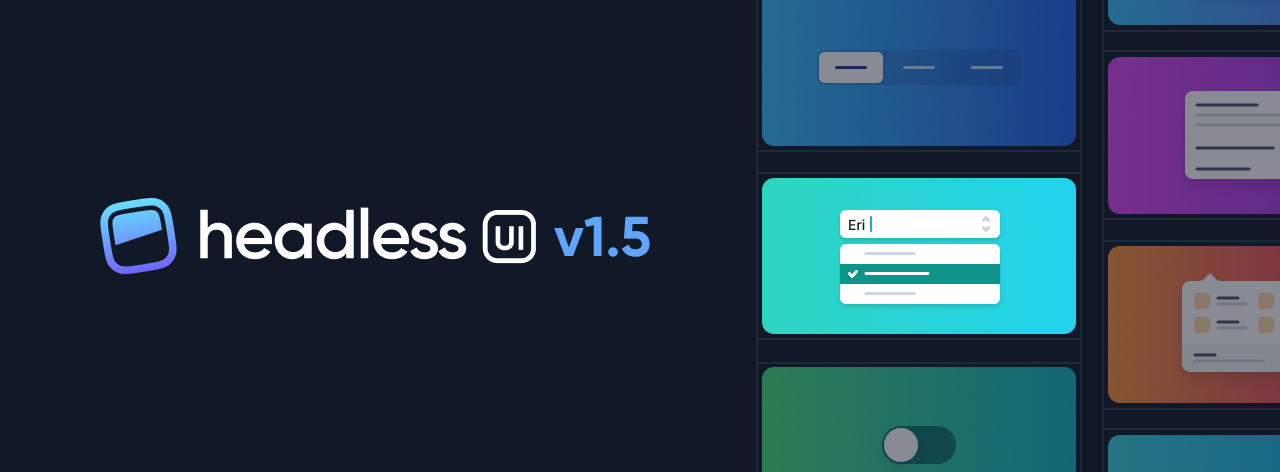
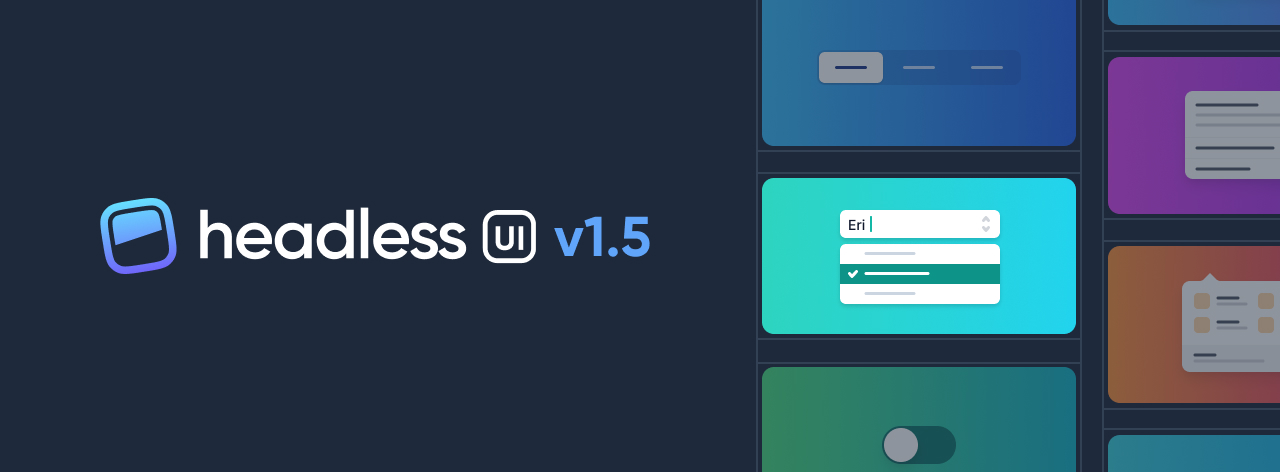
Fix dark mode

diff --git a/src/pages/blog/headless-ui-v1-5/Demo.js b/src/pages/blog/headless-ui-v1-5/Demo.js
@@ -31,7 +31,7 @@ export default function Demo() {
         <div className="relative w-full max-w-xs">
           <div className="relative w-full text-left bg-white rounded-lg shadow-md cursor-default focus:outline-none focus-within:ring-2 focus-within:ring-indigo-500 sm:text-sm overflow-hidden">
             <Combobox.Input
-              className="w-full border-none focus:ring-0 py-2 pl-3 pr-10 text-sm leading-5 text-gray-900 focus:outline-none"
+              className="w-full bg-transparent border-none focus:ring-0 py-2 pl-3 pr-10 text-sm leading-5 text-gray-900 focus:outline-none"
               displayValue={(person) => person.name}
               onChange={(event) => setQuery(event.target.value)}
             />
